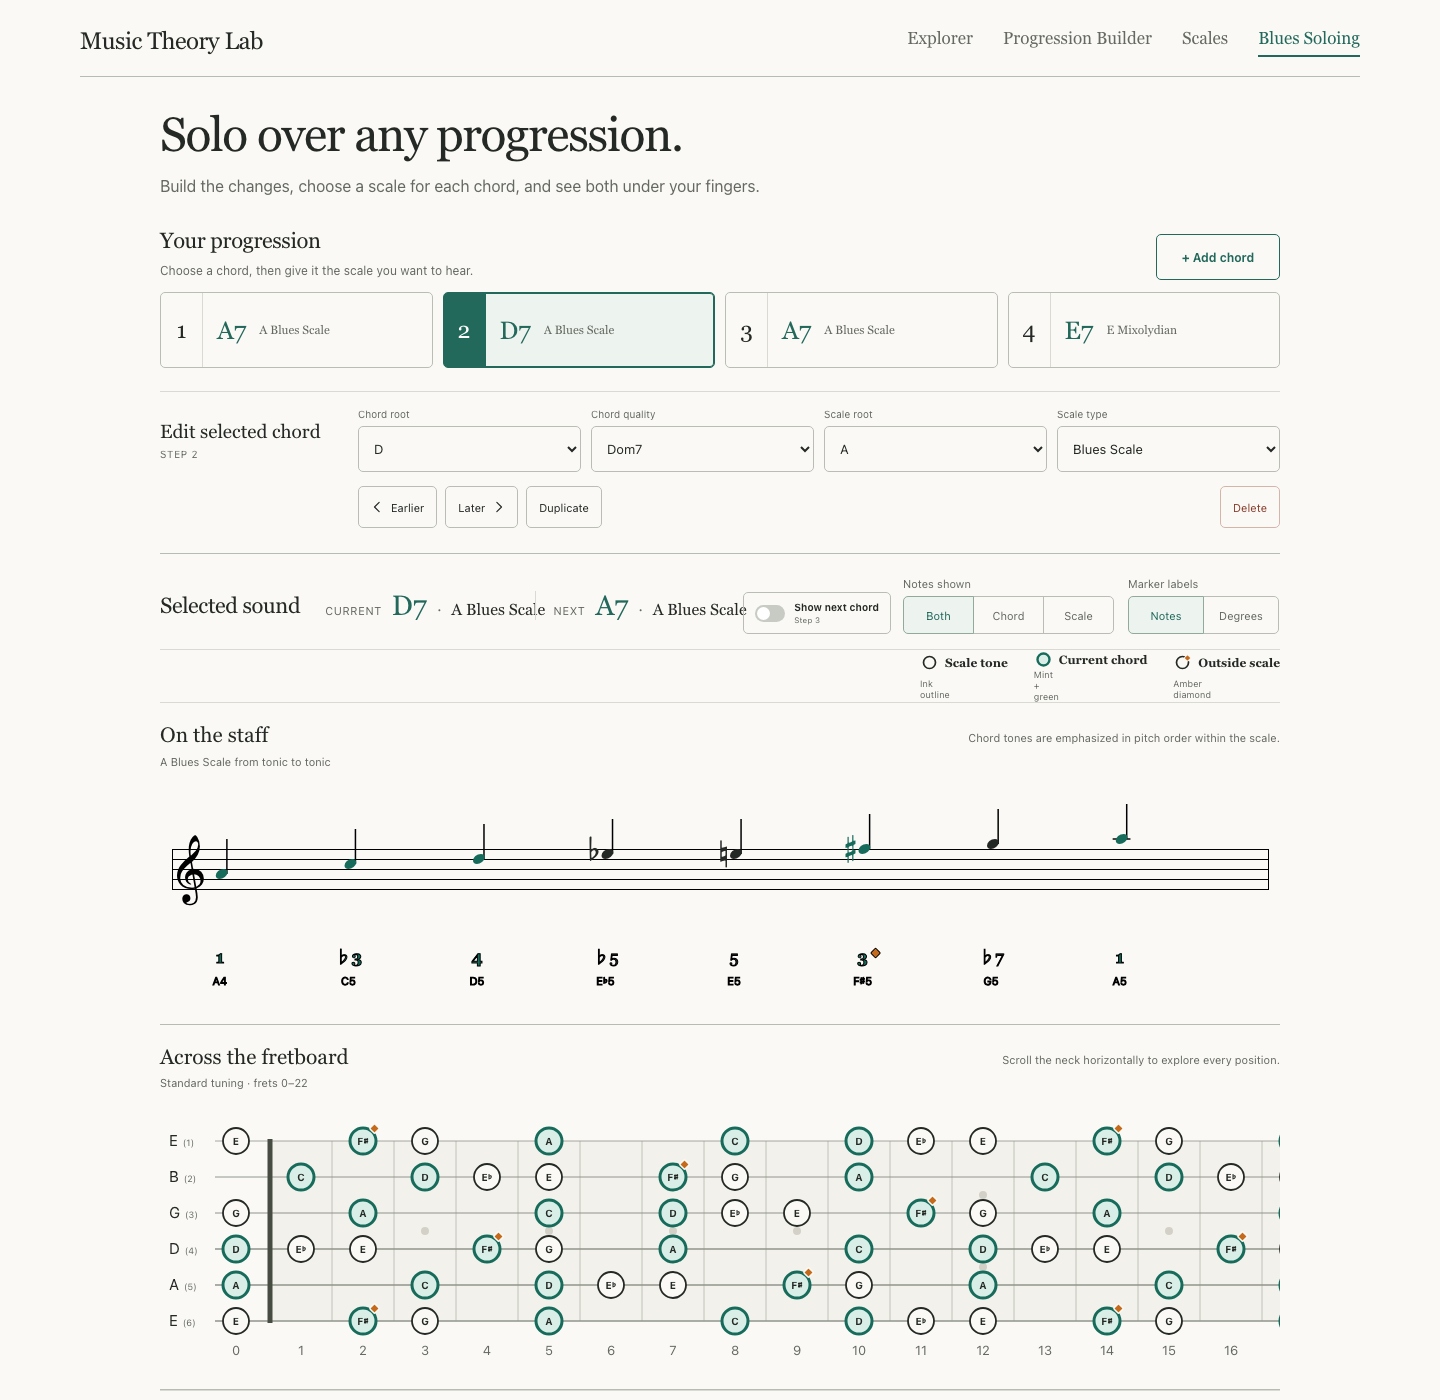
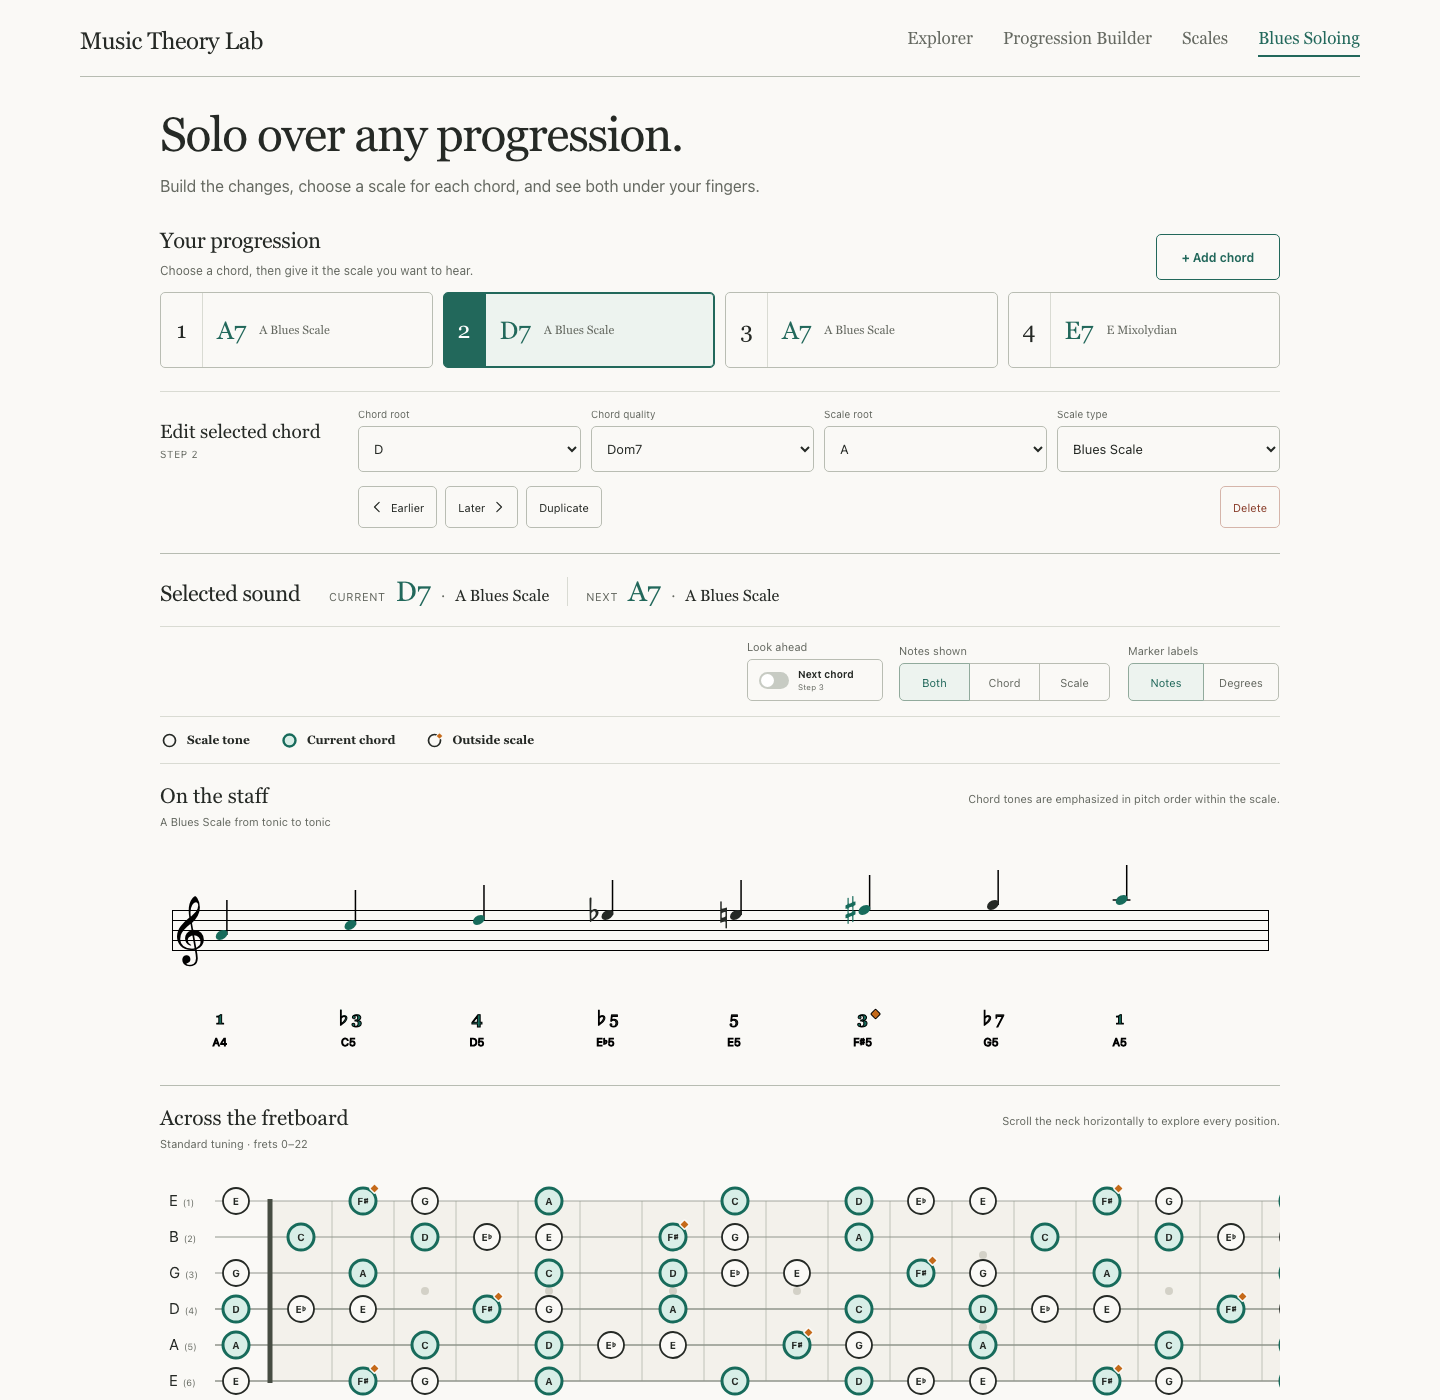
Declutter soloing sound controls

diff --git a/src/styles.css b/src/styles.css
@@ -542,14 +542,17 @@ fieldset { border: 0; padding: 0; margin: 0; min-width: 0; }
 .soloing-step-actions .soloing-delete-step { margin-left: auto; color: #8a3f2c; border-color: #d5b5aa; }
 .soloing-empty-progression { color: var(--muted); font-size: 13px; }
 .soloing-workbench { padding-top: 23px; }
-.soloing-workbench-heading { display: grid; grid-template-columns: auto minmax(360px, 1fr) auto; align-items: center; gap: 25px; padding-bottom: 15px; border-bottom: 1px solid var(--line); }
+.soloing-workbench-heading { display: grid; grid-template-columns: 145px minmax(0, 1fr); align-items: baseline; gap: 14px 24px; }
 .soloing-sound-summary { display: flex; min-width: 0; align-items: baseline; gap: 10px; }
 .soloing-sound-summary > span { color: var(--muted); font-size: 11px; text-transform: uppercase; letter-spacing: .055em; }
 .soloing-sound-summary > strong { color: var(--root); font: 28px/1 Georgia, 'Times New Roman', serif; font-weight: 400; }
 .soloing-sound-summary > b { min-width: 0; font: 16px/1.25 Georgia, 'Times New Roman', serif; font-weight: 400; white-space: nowrap; }
 .soloing-sound-summary > i { color: var(--muted); font-style: normal; }
 .soloing-sound-summary > em { align-self: stretch; width: 1px; margin: 0 8px; background: var(--line); }
-.soloing-workbench-controls { display: flex; align-items: flex-end; gap: 12px; }
+.soloing-workbench-controls { grid-column: 1 / -1; display: flex; align-items: flex-end; justify-content: flex-end; gap: 16px; margin-top: 3px; padding: 13px 0 15px; border-top: 1px solid var(--line); border-bottom: 1px solid var(--line); }
+.soloing-next-control { display: grid; gap: 6px; }
+.soloing-next-control > span { color: var(--muted); font-size: 11px; }
+.soloing-next-control .overlay-toggle { min-width: 136px; }
 .soloing-workbench-controls .overlay-toggle:disabled { cursor: not-allowed; opacity: .48; }
 .soloing-note-filter { width: 213px; }
 .soloing-note-filter label { min-width: 71px; }
@@ -557,8 +560,9 @@ fieldset { border: 0; padding: 0; margin: 0; min-width: 0; }
 .soloing-label-picker { width: 152px; }
 .soloing-label-picker legend { color: var(--muted); }
 .soloing-label-picker label { min-width: 76px; }
-.soloing-legend-row { display: flex; justify-content: flex-end; min-height: 53px; align-items: center; border-bottom: 1px solid var(--line); }
-.soloing-legend-row .transition-legend { justify-content: flex-end; gap: 26px; margin: 0; }
+.soloing-legend-row { display: flex; min-height: 47px; align-items: center; border-bottom: 1px solid var(--line); }
+.soloing-legend-row .transition-legend { justify-content: flex-start; gap: 30px; margin: 0; }
+.soloing-legend-row .transition-legend span { display: flex; gap: 8px; }
 .soloing-visual-section { padding: 19px 0 16px; border-bottom: 1px solid #b7bcb2; }
 .soloing-visual-heading { display: flex; align-items: baseline; justify-content: space-between; gap: 20px; margin-bottom: 4px; }
 .soloing-visual-heading h3 { margin: 0; font: 21px/1.3 Georgia, 'Times New Roman', serif; font-weight: 400; }
@@ -570,8 +574,6 @@ fieldset { border: 0; padding: 0; margin: 0; min-width: 0; }
 .soloing-footer { margin-top: 0; }
 
 @media (max-width: 1050px) {
-  .soloing-workbench-heading { grid-template-columns: auto 1fr; }
-  .soloing-workbench-controls { grid-column: 1 / -1; justify-content: flex-end; }
   .soloing-step-editor { grid-template-columns: 145px minmax(0, 1fr); gap-inline: 20px; }
 }
 
@@ -595,7 +597,7 @@ fieldset { border: 0; padding: 0; margin: 0; min-width: 0; }
   .soloing-workbench-controls { margin-top: 15px; flex-wrap: wrap; justify-content: flex-start; }
   .soloing-workbench-controls .overlay-toggle { min-height: 44px; }
   .soloing-note-filter { width: 213px; }
-  .soloing-legend-row { justify-content: flex-start; padding: 12px 0; }
+  .soloing-legend-row { padding: 12px 0; }
   .soloing-legend-row .transition-legend { justify-content: flex-start; gap: 12px 20px; }
   .soloing-visual-heading { display: block; }
   .soloing-visual-heading > span { display: block; margin-top: 5px; }
@@ -606,8 +608,10 @@ fieldset { border: 0; padding: 0; margin: 0; min-width: 0; }
 @media (max-width: 420px) {
   .soloing-progression-heading { align-items: flex-end; }
   .soloing-workbench-controls { display: grid; grid-template-columns: 1fr; }
+  .soloing-next-control,
   .soloing-note-filter,
   .soloing-label-picker { width: 100%; display: grid; grid-template-columns: 88px minmax(0, 1fr); align-items: center; }
+  .soloing-next-control .overlay-toggle { width: 100%; }
   .soloing-note-filter > div { display: grid; grid-template-columns: repeat(3, minmax(0, 1fr)); }
   .soloing-note-filter legend,
   .soloing-label-picker legend { margin: 0; }

diff --git a/src/views/BluesSoloing.tsx b/src/views/BluesSoloing.tsx
@@ -36,6 +36,7 @@ export function BluesSoloing() {
     () => nextStep ? createSoloingScale(nextStep.scale.root, nextStep.scale.type) : undefined,
     [nextStep],
   )
+  const nextStepNumber = nextStep ? (selectedIndex + 1) % progression.length + 1 : undefined
   const effectiveShowNextChord = showNextChord && noteFilter !== 'scale'
 
   function updateProgression(nextProgression: SoloingStep[], nextSelectedStepId: string) {
@@ -75,19 +76,25 @@ export function BluesSoloing() {
           </>}
         </div>
         <div className="soloing-workbench-controls">
-          <button
-            className={`overlay-toggle${effectiveShowNextChord ? ' is-active' : ''}`}
-            type="button"
-            aria-pressed={effectiveShowNextChord}
-            disabled={!nextStep || noteFilter === 'scale'}
-            onClick={() => setShowNextChord(shown => !shown)}
-          >
-            <i aria-hidden="true" />
-            <span>
-              <b>{noteFilter === 'scale' ? 'Next chord unavailable' : showNextChord ? 'Hide next chord' : 'Show next chord'}</b>
-              <small>{noteFilter === 'scale' ? 'Choose Both or Chord' : nextStep ? `Step ${(selectedIndex + 1) % progression.length + 1}` : 'Add another chord'}</small>
-            </span>
-          </button>
+          <div className="soloing-next-control">
+            <span>Look ahead</span>
+            <button
+              className={`overlay-toggle${effectiveShowNextChord ? ' is-active' : ''}`}
+              type="button"
+              aria-label={noteFilter === 'scale'
+                ? 'Next chord unavailable in Scale view'
+                : `${showNextChord ? 'Hide' : 'Show'} next chord${nextStepNumber ? `, step ${nextStepNumber}` : ''}`}
+              aria-pressed={effectiveShowNextChord}
+              disabled={!nextStep || noteFilter === 'scale'}
+              onClick={() => setShowNextChord(shown => !shown)}
+            >
+              <i aria-hidden="true" />
+              <span>
+                <b>Next chord</b>
+                <small>{noteFilter === 'scale' ? 'Both or Chord' : nextStepNumber ? `Step ${nextStepNumber}` : 'Add a chord'}</small>
+              </span>
+            </button>
+          </div>
           <fieldset className="label-mode-picker soloing-note-filter">
             <legend>Notes shown</legend>
             <div>

diff --git a/src/components/SoloingFretboardView.tsx b/src/components/SoloingFretboardView.tsx
@@ -65,10 +65,9 @@ export function SoloingVisualLegend({ showNextChord = false, noteFilter = 'both'
       ...(showNextChord ? [{ kind: 'next' as const, label: 'Next chord', detail: 'Blue dashed halo' }] : []),
     ]
   return <div className="transition-legend" aria-label="Soloing visualization legend">
-    {items.map(item => <span key={item.kind}>
+    {items.map(item => <span key={item.kind} aria-label={`${item.label}: ${item.detail}`}>
       <LegendMarker kind={item.kind} />
       <b>{item.label}</b>
-      <small>{item.detail}</small>
     </span>)}
   </div>
 }

diff --git a/docs/design/blues-progression-v2-verification.md b/docs/design/blues-progression-v2-verification.md
@@ -9,10 +9,11 @@ This pass supersedes the fixed 12-bar Blues Soloing design. It implements the co
 | Page hierarchy | Intro, progression, selected sound, staff, fretboard | Same order and restrained editorial layout |
 | Progression | Selectable numbered chord/scale cards | Horizontal rail with stable selection, add, move, duplicate, and delete |
 | Editor | Chord root/type plus independent scale root/type | Four direct selects with the requested six qualities and seven scales |
-| Current sound | Current and next harmony side by side | Live summary with a wrapping immediate-next chord |
+| Current sound | Current and next harmony side by side | Live summary isolated from a dedicated view-controls toolbar, preventing long scale names from colliding with the next-chord control |
 | Staff | Scale from tonic to tonic with chord emphasis | VexFlow notation with a shared Both/Chord/Scale filter, ascending pitch order, and amber diamonds marking out-of-scale chord tones |
 | Fretboard | One legible full-neck map | Standard tuning, frets 0–22, local horizontal scroll, Notes/Degrees labels; equal-size neutral scale and mint/green current-chord markers, with amber-diamond out-of-scale tones |
-| Overlay | Optional look-ahead | Next-chord toggle adds independent blue dashed halos on both staff and fretboard |
+| Overlay | Optional look-ahead | Compact, consistently labeled next-chord switch adds independent blue dashed halos on both staff and fretboard |
+| Legend | Explain marker roles without competing with controls | Separate one-line symbol-and-role key; treatment details remain available to assistive technology |
 | Responsive | Compact mobile controls and locally scrolling diagrams | Verified in a 390px-wide browser capture with wrapped filter controls and local diagram scrolling |
 
 The concepts supplied the visual hierarchy, spacing, typography, palette, and interaction grouping. Tonal and VexFlow remain the authority for pitch spelling and notation, correcting the illustrative note content in the generated concepts.

diff --git a/docs/design/blues-progression-v2-spec.md b/docs/design/blues-progression-v2-spec.md
@@ -36,6 +36,9 @@ Mobile concept: `blues-progression-mobile-v2.png`
 - Next chord: cobalt `#4666b0` dashed outer halo. Shared tones retain their base marker and add the halo.
 - Role treatments compose independently so a current/next/outside tone shows the current marker, amber diamond, and blue halo together.
 - `Both` shows the union of the selected scale and chord tones, `Chord` limits the display to current plus optionally next chord tones, and `Scale` presents a neutral scale-only map.
+- The selected harmony, view controls, and marker key occupy separate horizontal bands so long chord/scale names cannot collide with controls.
+- The next-chord control uses a short, persistent `Next chord` label; its switch and accessible name communicate whether the overlay is shown or hidden.
+- The marker key uses only the marker symbol and role name visually; treatment details remain in its accessible label.
 - On the staff, chord tones outside the scale are inserted at their chromatic pitch position inside the tonic-to-tonic run.
 - Display type uses Georgia; UI controls use the system sans-serif stack.
 - Open rails and bands are preferred to nested cards. Controls retain 5px radii and at least 44px touch targets.
